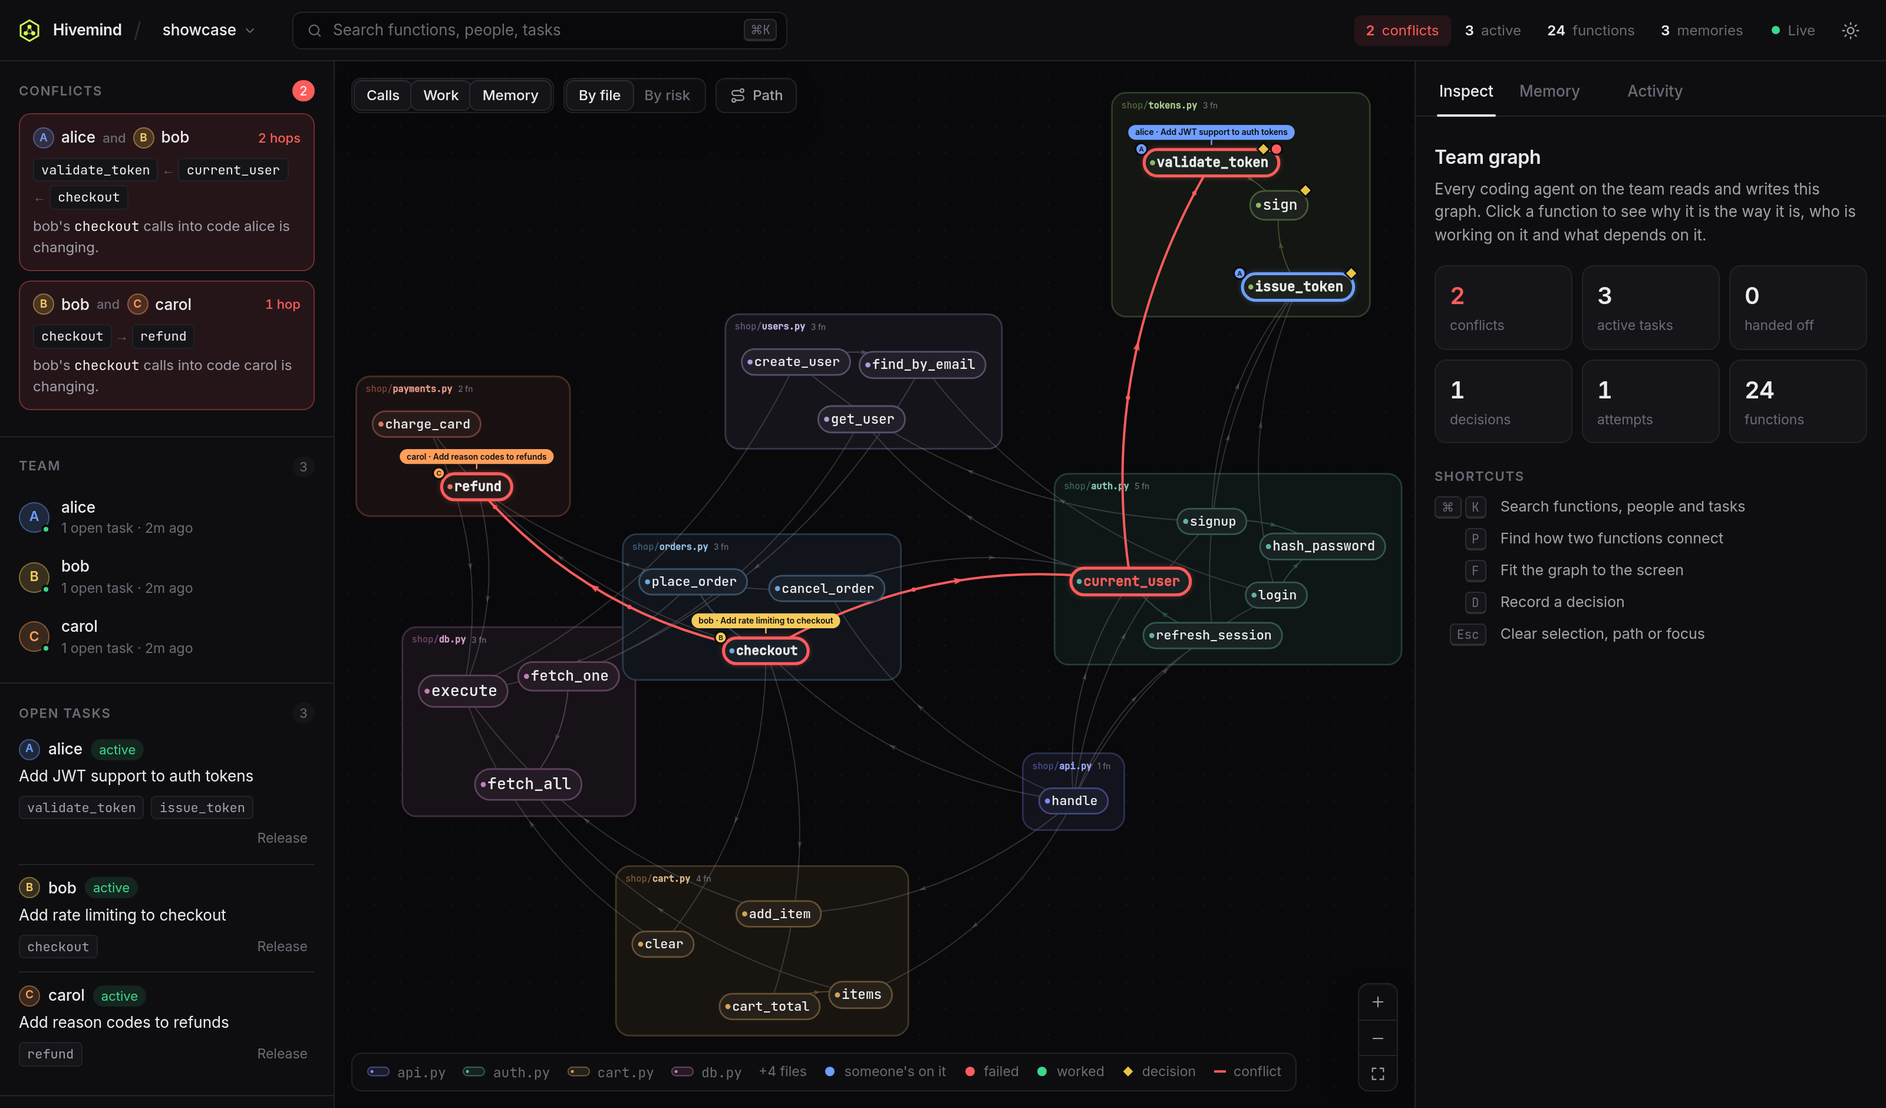
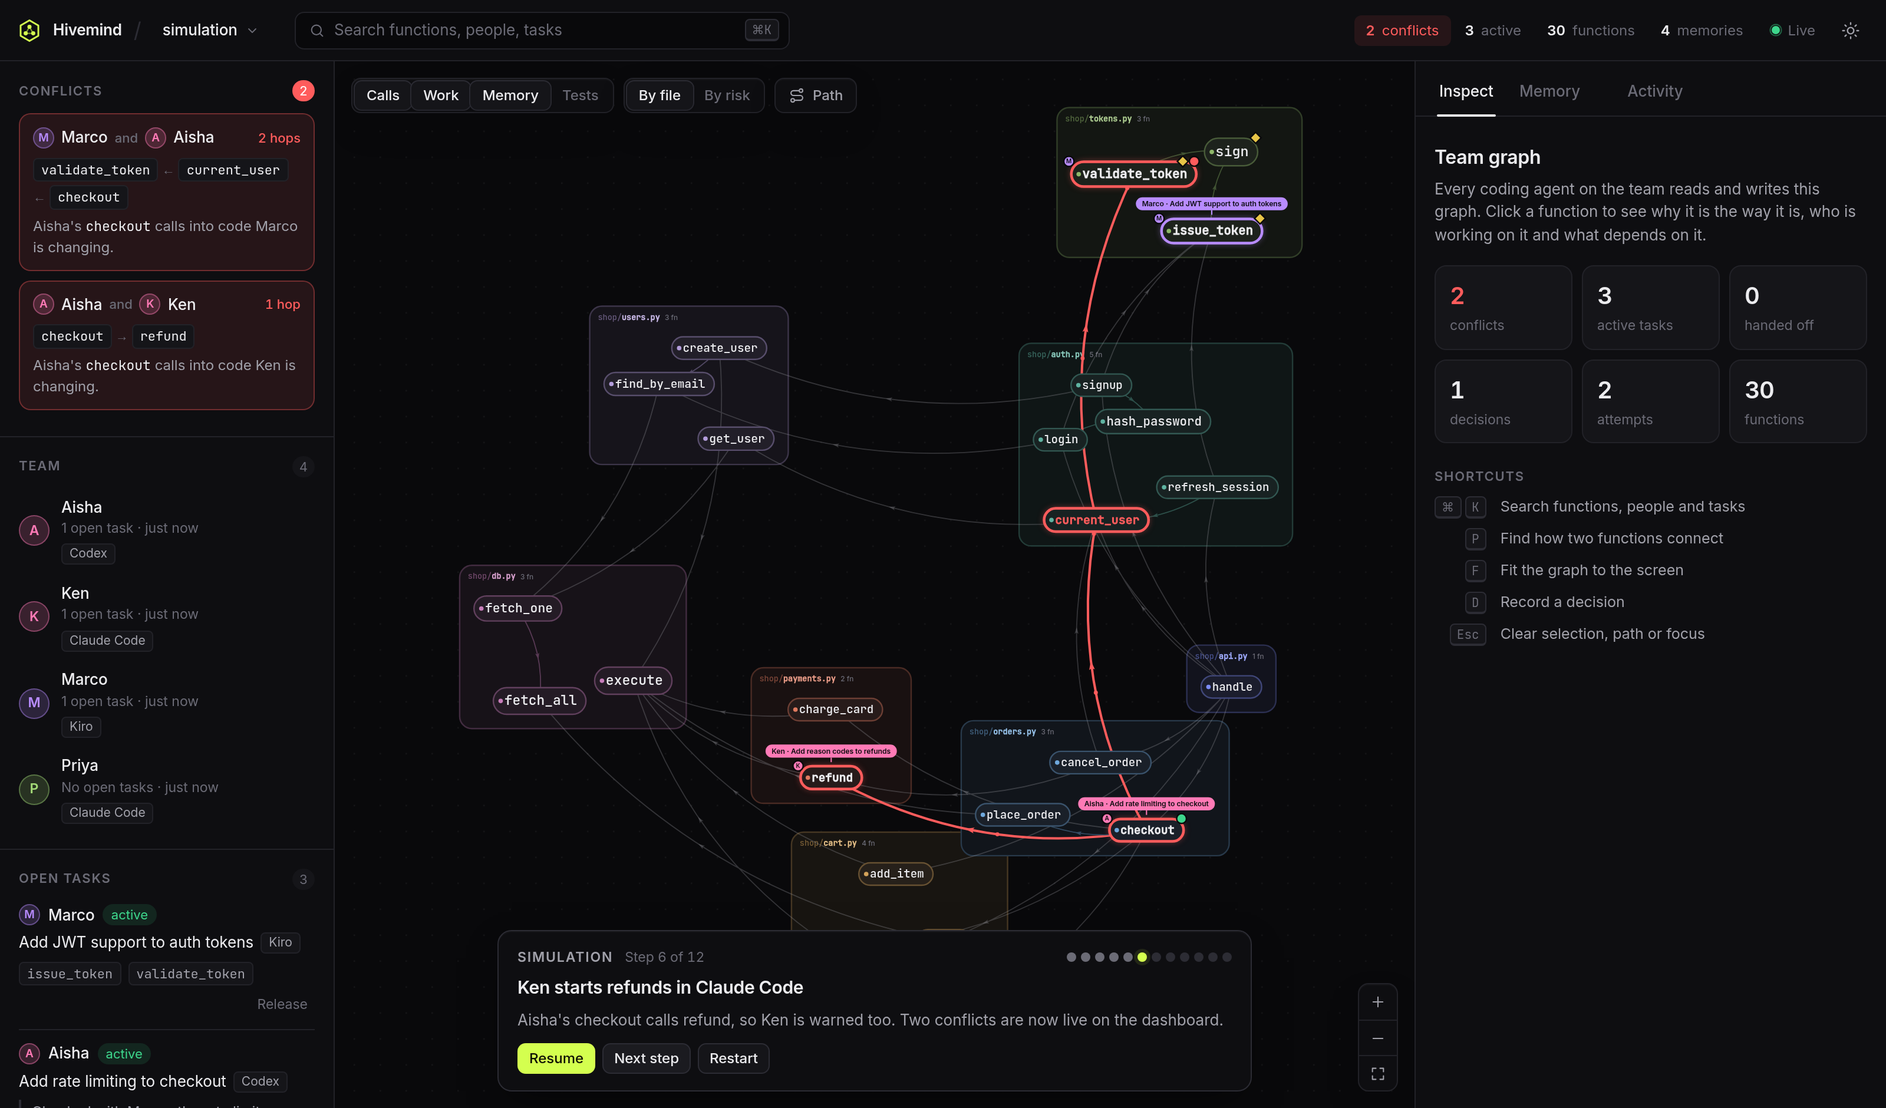
Submission-ready: links, data model, Cypher queries, AI disclosure
- README opens with the live demo, video, track and stack; adds the full
  graph data model, an architecture diagram, the Cypher queries and
  graph algorithms the product depends on, and the AI-assistance
  disclosure the rules require
- docs/SUBMISSION.md: copy-paste answers for the submission form
- docs/demo-video-script.md: a three-minute shot list with real agents
- New hero screenshot from the live demo (two live conflicts)

diff --git a/README.md b/README.md
@@ -1,6 +1,13 @@
 # ⬡ Hivemind
 
-**A shared graph brain for every coding agent on a team.** Built on [FalkorDB](https://falkordb.com) for Graph Hacks, Track 02: Agent Memory and Coordination.
+**A shared graph brain for every coding agent on a team.** Built on [FalkorDB](https://falkordb.com) for [Graph Hacks: Context for AI Agents](https://www.wemakedevs.org/hackathons/falkordb) (WeMakeDevs × FalkorDB, Oct 15–18 2026).
+
+| | |
+|---|---|
+| **▶ Live demo** | **[hivemind-live-demo.vercel.app](https://hivemind-live-demo.vercel.app)**: press Play, no sign-up |
+| **Demo video** | DEMO_VIDEO_LINK |
+| **Track** | Agent Memory and Coordination (Track 02) |
+| **Built with** | FalkorDB Cloud · Python · MCP · Claude Code, Kiro and Codex hooks · Vercel |
 
 Five developers each run their own Claude Code, Codex or Kiro agent on the same repo. None of those agents knows what the others are doing. Agent A rewrites `validate_token()` while Agent B builds on its old behaviour. Agent C retries a fix that Agent D found breaks production yesterday. Every session starts from zero.
 
@@ -10,7 +17,7 @@ Hivemind puts every agent on one graph. It holds the code's call graph, who is c
 - **Memory of what failed, captured automatically.** When an agent changes code and the tests fail, that failure is attached to the exact functions it changed. It reaches the next agent that touches that function *or anything that calls it*, on any machine, in any later session, whichever agent that developer uses. When a later change makes the tests pass, the failure is marked fixed, along with the fix.
 - **Clean handoffs.** Alice's agent stops mid-task, and Bob's agent resumes it the next morning with every session, attempt and note.
 
-**▶ Live demo: [hivemind-live-demo.vercel.app](https://hivemind-live-demo.vercel.app)**. Press **Play** to watch five developers using Claude Code, Kiro and Codex work on one project through the shared memory: conflicts caught before anyone writes code, a failure that two attempts hit and that gets merged, a handoff, a fix that resolves the failure, and a decision that supersedes an older one. No sign-up needed.
+**▶ [Live demo](https://hivemind-live-demo.vercel.app)**: press **Play** to watch five developers using Claude Code, Kiro and Codex work on one project through the shared memory: conflicts caught before anyone writes code, a failure that two attempts hit and that gets merged, a handoff, a fix that resolves the failure, and a decision that supersedes an older one. No sign-up needed.
 
 ![live view](docs/live-view.png)
 
@@ -88,27 +95,119 @@ Every question Hivemind answers is a question about connections:
 
 In a relational store, each of these would mean stitching rows together with recursive joins on every agent step. In FalkorDB each one is a single Cypher query, fast enough to run before every edit.
 
-## Graph model
+## Graph data model
+
+One FalkorDB graph per team (`hivemind_<team>`, using FalkorDB's multi-graph support). The **code layer** is built from the repo; everything else is **team memory** attached to it.
 
 ```
-                       ┌──────────── code layer (indexer) ────────────┐
-                       (File)-[:DEFINES]->(Function)-[:CALLS]->(Function)
-                       (File)-[:IMPORTS]->(File)
-                                  ▲            ▲            ▲
-                          [:CLAIMS]│   [:TOUCHED]│  [:GOVERNS]│
-(Developer)-[:OWNS]->(Intent)──────┘  (Attempt)──┘ (Decision)──┘   (Convention)-[:APPLIES_TO]->(File)
-     │                  ▲                 ▲              ▲                 ▲
-     └─[:RAN]->(Session)┴─[:WORKS_ON]     └─[:MADE]      └─[:DECIDED]      └─[:SET]  (Developer)
+CODE LAYER (indexer.py, re-indexed per file as agents edit)
+  (File)-[:DEFINES]->(Function)-[:CALLS]->(Function)        Function {qname, name, file, lineno, hash, calls}
+  (File)-[:IMPORTS]->(File)
+
+WHO IS DOING WHAT (coordination)
+  (Developer)-[:RAN]->(Session {agent})-[:WORKS_ON]->(Intent {description, status, progress})
+  (Developer)-[:OWNS]->(Intent)                               moves to the new owner on handoff
+  (Intent)-[:CLAIMS]->(Function)                              what a task is changing right now
+
+WHAT HAPPENED (episodic)
+  (Session)-[:MADE]->(Change {added, changed, removed})-[:CHANGED]->(Function)
+  (Session)-[:MADE]->(Attempt {outcome, reason, signature, count, devs})-[:TOUCHED]->(Function)
+  (Attempt)-[:RESOLVES]->(Attempt)                            a later success fixed this failure
+  (Attempt)-[:PART_OF]->(Intent)
+  (Session)-[:LOGGED]->(Event)                                activity feed
+
+WHAT IS TRUE / HOW WE WORK (semantic, procedural)
+  (Developer)-[:DECIDED]->(Decision)-[:GOVERNS]->(Function|File)
+  (Decision)-[:SUPERSEDES]->(Decision)                        only the newest is shown to agents
+  (Developer)-[:SET]->(Convention)-[:APPLIES_TO]->(File)
 ```
 
-| Memory type | Nodes | Lifetime |
+| Memory type | Nodes | How it changes over time |
 |---|---|---|
-| **Episodic**: what happened | `Session`, `Attempt`, `Event` | Permanent history |
-| **Semantic**: what is true | `Decision`, the code graph | Until superseded or re-indexed |
-| **Procedural**: how we work | `Convention` | Repo-wide or scoped to files |
-| **Coordination**: shared state | `Intent` + `CLAIMS` | Active → handed off → done |
+| **Episodic**: what happened | `Session`, `Change`, `Attempt`, `Event` | Repeats merge (`count`, `devs`); failures get `RESOLVES` links when fixed |
+| **Semantic**: what is true | `Decision`, the code graph | Restated decisions `SUPERSEDE` older ones; code re-indexed per edit by AST hash |
+| **Procedural**: how we work | `Convention` | Duplicates merge |
+| **Coordination**: shared state | `Intent` + `CLAIMS` | Active → handed off → resumed → done |
 
-Each team gets its own isolated graph (`hivemind_<team>`) in a single FalkorDB instance, using FalkorDB's multi-graph support.
+## Architecture
+
+```
+ Developer A (anywhere)                Developer B (anywhere)
+ Claude Code / Kiro / Codex            Claude Code / Kiro / Codex
+   ├─ hooks: hivemind hook               ├─ hooks
+   └─ MCP:   hivemind serve              └─ MCP
+          │   Cypher over redis(s)://          │
+          ▼                                    ▼
+   ┌──────────────── FalkorDB Cloud ────────────────┐
+   │  hivemind_<team>   hivemind_<other team>  ...  │
+   └───────────────────────▲────────────────────────┘
+                           │
+        Vercel: dashboard (access code) · public demo (simulation)
+```
+
+Every agent action goes straight to the graph. No server of ours sits in between, so there's nothing else to run. Timestamps come from the database server's clock, because laptops disagree.
+
+## Cypher queries and graph algorithms it depends on
+
+Every feature is one or two queries. These are the ones the product can't work without (simplified only by removing parameters):
+
+**1. Conflict detection: is anyone changing code mine calls, or code that calls mine?** (`brain.py: conflicts`). This runs before every edit, in both directions separately so functions that merely share a caller don't count:
+```cypher
+MATCH (t:Function) WHERE t.qname IN $mine
+MATCH p = (t)-[:CALLS*1..3]->(o:Function)<-[:CLAIMS]-(i:Intent {status: 'active'})   // or (t)<-[:CALLS*1..3]-(o)
+WHERE i.dev <> $me
+RETURN t.qname, o.qname, i.dev, i.description, [n IN nodes(p) | n.qname] AS path
+```
+
+**2. Context before editing: what has been tried on this code or its neighbours?** (`brain.py: context`)
+```cypher
+MATCH (t:Function) WHERE t.qname IN $q
+MATCH (t)-[:CALLS*0..1]-(fn:Function)<-[:TOUCHED]-(a:Attempt)
+WITH a, collect(DISTINCT fn.qname) AS fns
+RETURN a.summary, a.outcome, a.reason, a.count, a.devs, a.resolved, a.resolved_summary
+```
+
+**3. A success resolves earlier failures** (`brain.py: record_attempt`)
+```cypher
+MATCH (f:Attempt {outcome: 'failed'})-[:TOUCHED]->(fn:Function)
+WHERE fn.qname IN $q AND coalesce(f.resolved, false) = false
+WITH DISTINCT f MATCH (a:Attempt {id: $fix})
+CREATE (a)-[:RESOLVES]->(f) SET f.resolved = true, f.resolved_dev = $dev
+```
+Duplicates are merged first: a new attempt with the same outcome on the same functions and the same failing tests (or similar wording) increments `count` instead of creating a node.
+
+**4. Decisions supersede decisions** (`brain.py: record_decision`)
+```cypher
+MATCH (x:Decision)-[:GOVERNS]->(n)
+WHERE x.superseded = false AND ((n:Function AND n.qname IN $q) OR (n:File AND n.path IN $files))
+...
+CREATE (new)-[:SUPERSEDES]->(old) SET old.superseded = true
+```
+
+**5. Blast radius: what breaks if this changes?** (`brain.py: blast_radius`)
+```cypher
+MATCH (t:Function {qname: $q})
+MATCH p = (caller:Function)-[:CALLS*1..3]->(t)
+RETURN caller.qname, min(length(p)) AS distance
+```
+
+**6. Incremental re-index after an agent edits a file** (`indexer.py: index_file`). Each function's AST hash says what really changed, and calls are re-resolved by name:
+```cypher
+MATCH (a:Function {file: $file}) UNWIND a.calls AS name
+MATCH (b:Function {name: name}) WHERE b <> a
+WITH a, collect(b) AS targets, [t IN collect(b) WHERE t.file = a.file] AS local
+UNWIND CASE WHEN size(local) > 0 THEN local ELSE targets END AS t
+MERGE (a)-[:CALLS]->(t)
+```
+
+**7. Graph algorithms in the dashboard** (`ui.py`)
+```cypher
+CALL algo.pageRank('Function', 'CALLS') YIELD node, score                       // "core" functions
+CALL algo.betweenness({nodeLabels: ['Function'], relationshipTypes: ['CALLS']})  // chokepoints
+RETURN [n IN nodes(shortestPath((x)-[:CALLS*]->(y))) | n.qname]                 // path finder
+```
+
+**Remove FalkorDB and nothing works:** conflicts, context, consolidation, handoffs and the dashboard are all traversals over this graph.
 
 ## Memory that writes itself
 
@@ -227,7 +326,7 @@ uv run hivemind ui &                # http://127.0.0.1:8765 (⌘K to search)
 uv run hivemind demo --step         # press Enter to advance
 ```
 
-## The demo scenario
+## The local demo scenario
 
 `hivemind demo` plays this out on [`examples/shopapp`](examples/shopapp):
 
@@ -246,6 +345,10 @@ uv run pytest      # integration tests against the local FalkorDB; each test get
 ```
 
 Layout: `indexer.py` (code → graph, AST hashes, incremental) · `brain.py` (memory, consolidation, coordination) · `capture.py` (normalizes Claude/Kiro/Codex hook payloads, detects test runs) · `hooks.py` · `server.py` (MCP) · `setup.py` (`init`) · `watch.py` · `ui.py` + `static/` · `demo.py`. `tests/fixtures/hooks` holds payloads captured from real agent sessions.
+
+## How this was built (AI disclosure)
+
+As the hackathon rules require: Hivemind was built during the hackathon window (first commit on Oct 16, 2026) with **Claude Code** (Anthropic) as an AI coding assistant. Jaskaran Singh came up with the idea (agents on different machines sharing one memory of a codebase) and set the product direction: automatic capture across Claude Code, Kiro and Codex, a cloud-hosted setup with a Vercel dashboard, one-command onboarding and the public simulation. He also reviewed the results at each step. Much of the code was written by the assistant under that direction. It was verified with automated tests against a real FalkorDB (63 tests) and with real Claude Code, Kiro and Codex sessions (see *Tested with real agents*). All example data is synthetic: [`examples/shopapp`](examples/shopapp) is a made-up shop backend.
 
 ## Roadmap
 

diff --git a/docs/SUBMISSION.md b/docs/SUBMISSION.md
@@ -1,0 +1,67 @@
+# Graph Hacks submission: Hivemind
+
+Copy-paste answers for the submission form. Fill in the demo video link once it's uploaded.
+
+**Project name:** Hivemind
+
+**Tagline:** A shared graph brain for every coding agent on a team.
+
+**Track:** Agent Memory and Coordination (Track 02).
+*Optional second track:* Agents That Act on Connected Data. Agents run multi-hop call-graph queries through MCP before acting, and every warning shows the path that caused it.
+
+**Links**
+- Repository: https://github.com/Quantapixel/memofull
+- Live demo (public, press Play): https://hivemind-live-demo.vercel.app
+- Demo video: DEMO_VIDEO_LINK
+- Setup instructions: README → *Get started*
+- Graph data model: README → *Graph data model*
+- Cypher queries and algorithms: README → *Cypher queries and graph algorithms it depends on*
+
+## Short description (~100 words)
+
+Developers now run their own coding agents (Claude Code, Kiro, Codex) on the same codebase, but the agents can't see each other and forget everything between sessions. Hivemind puts every agent on one FalkorDB graph: the code's call graph plus who is changing what, what was tried, what failed and what the team decided. Hooks capture each edit down to the function and every test run automatically. Before an edit, agents are warned when a teammate is changing connected code, with the exact call path. Failures, fixes, decisions and handoffs follow the code across machines and sessions, and the memory consolidates itself as it grows.
+
+## The problem
+
+When a team works with AI coding agents, every agent starts from zero and works alone:
+- Agent A changes `validate_token` while agent B, on another laptop, builds on its old behaviour. Git only notices the textual conflict after both are done; the *semantic* conflict goes unnoticed.
+- Agent C retries an approach that broke the tests for agent D yesterday.
+- When someone stops mid-task, the next person (and their agent) starts over.
+
+## What Hivemind does
+
+- **Captures memory automatically.** Hooks in Claude Code, Kiro and Codex turn prompts into tasks and record edits at function level (by AST hash). Test runs after a change become attempts, and the agent's own summary becomes the task's progress note.
+- **Prevents collisions.** Before an edit, a variable-length traversal finds teammates' active claims up to 3 calls away, in either direction. The edit is blocked once, with the path (`checkout → current_user → validate_token`).
+- **Consolidates.** Repeated failures merge ("seen 2× by Marco"), a passing change `RESOLVES` earlier failures, restated decisions `SUPERSEDE` older ones, and duplicate rules merge.
+- **Hands off cleanly.** Ownership moves while the full history stays attached: sessions, attempts, notes.
+- **Explains.** `why(fn)` returns the current decision, the one it replaced, the failures and who fixed them. `blast_radius` and `who_knows` are one query each.
+- **Works across machines.** FalkorDB Cloud holds one graph per team. Teammates join with `hivemind join <dashboard>` plus an access code, and a Vercel dashboard shows everything live.
+
+## How FalkorDB is used (central, not decorative)
+
+- One graph per team (multi-graph) holds a code layer (`File`, `Function`, `CALLS`) and team memory (`Intent`, `CLAIMS`, `Change`, `Attempt`, `RESOLVES`, `Decision`, `SUPERSEDES`, `Convention`, `Session`, `Developer`).
+- **Variable-length traversals** (`[:CALLS*1..3]`) for conflict detection and blast radius, run before every edit.
+- **Graph algorithms:** `algo.pageRank` (core functions), `algo.betweenness` (chokepoints) and `shortestPath` (path finder, including the closest shared caller).
+- Incremental re-indexing with Cypher `UNWIND`/`MERGE` as agents edit files.
+- Remove FalkorDB and nothing works: conflicts, context, consolidation, handoffs and the dashboard are all graph queries.
+
+## Tested with real agents
+
+Three "machines" (separate clones) shared one FalkorDB Cloud graph:
+- **Kiro:** given a task that never mentioned Hivemind. Its prompt, exact function changes and test results were recorded automatically.
+- **Claude Code, as a different developer:** said unprompted, "the revocation check from kira's recent change is untouched".
+- **Codex:** used the shared task board through MCP; its edits were captured by `hivemind watch`.
+
+Separately, a fresh install from GitHub followed by `hivemind join` was run against the live dashboard. There are 63 automated tests, all running against a real FalkorDB.
+
+## Data
+
+All data is synthetic: `examples/shopapp` is a made-up shop backend, and the simulation's developers are fictional.
+
+## AI assistance disclosure
+
+Built during the hackathon window (first commit Oct 16, 2026) with Claude Code (Anthropic) as an AI coding assistant. Jaskaran Singh came up with the idea and set the product direction: cross-machine shared memory, automatic capture for Claude Code, Kiro and Codex, the hosted dashboard, one-command onboarding and the public simulation. He reviewed each stage; much of the code was written by the assistant under that direction. Full statement in the README.
+
+## Team
+
+Jaskaran Singh (@Quantapixel)

diff --git a/docs/demo-video-script.md b/docs/demo-video-script.md
@@ -1,0 +1,53 @@
+# Demo video script (about 3 minutes)
+
+The rules ask for "a demo video showing the working project". Judges will want to see real agents, not just the dashboard, so the video uses two terminals plus the browser. Record at 1080p with a screen recorder (on GNOME, press Ctrl+Alt+Shift+R or use OBS) and talk over it.
+
+## Before recording (5 minutes)
+
+1. Wake the database: open your instance in the FalkorDB Cloud console and check it says Running. Then run `hivemind doctor` in `~/shopapp` and make sure everything is ✓.
+2. Open two terminals side by side, both in `~/shopapp`:
+   - Terminal 1: you (Claude Code).
+   - Terminal 2: a second developer. Use a second clone with a different name, e.g.
+     `git clone https://github.com/Quantapixel/shopapp ~/shopapp-maya && cd ~/shopapp-maya && git config user.name "Maya" && hivemind join https://hivemind-dashboard-five.vercel.app`
+     Use `kiro-cli chat --agent hivemind` here to show a second agent.
+3. Browser: the private dashboard (https://hivemind-dashboard-five.vercel.app) on team `duo`, and a second tab with the public demo.
+4. Make sure the shop app's tests pass at the start: `python3 -m unittest discover -s tests -t .`
+
+## Shots
+
+**0:00 – 0:20 · The problem** (talk over the dashboard)
+"Every developer now has their own coding agent. But my agent doesn't know what yours is doing, and it forgets everything between sessions. Hivemind gives all of them one shared memory, a graph in FalkorDB."
+
+**0:20 – 0:50 · Collision caught before it happens**
+- Terminal 2 (Maya, Kiro): *"Make validate_token reject tokens older than 30 minutes."* Let it start editing.
+- Terminal 1 (you, Claude Code): *"Add rate limiting to checkout in shop/orders.py."*
+- Show the edit being blocked with the message: `checkout -> current_user -> validate_token`.
+- Switch to the dashboard: the red conflict path and both tasks.
+- Say: "Git would only catch this after we both finished. The graph caught it before I wrote a line, because checkout calls current_user, which calls validate_token."
+
+**0:50 – 1:30 · Memory that writes itself**
+- Let one agent's test run fail (if nothing fails naturally, ask Maya's agent to *"change validate_token to require a 'v2:' prefix and run the tests"*).
+- Dashboard: click `validate_token`. History shows the failed attempt with the failing test, and the activity feed shows edits and test runs.
+- Say: "Nobody called a tool. The hooks saw the edit, re-indexed the file to find exactly which function changed, and attached the failing test to it."
+
+**1:30 – 2:00 · Shared memory across agents**
+- Terminal 1: *"What has been tried on validate_token?"* Claude Code answers with Maya's failure.
+- Say: "Different machine, different person, different agent. Same memory."
+
+**2:00 – 2:30 · Handoff and fix**
+- Terminal 2: *"I'm stopping, hand this task off to Jaskaran Singh with a note."*
+- Terminal 1: *"Pick up what was handed to me."* Fix it, run the tests, and they pass.
+- Dashboard: the failure is struck through, "Fixed by …".
+
+**2:30 – 2:50 · Why a graph**
+- README → *Cypher queries*, or the dashboard's Path finder and Hotspots (PageRank, betweenness).
+- Say: "Every feature is a traversal: conflicts are a variable-length CALLS path to someone's claim, blast radius is transitive callers, and core functions come from PageRank. Remove FalkorDB and nothing works."
+
+**2:50 – 3:00 · Close**
+- Public demo tab: "Try it yourself at hivemind-live-demo.vercel.app. Five developers, three agents, one memory."
+
+## If something goes wrong while recording
+
+- An agent doesn't get blocked: the conflict check only fires when the other person's task is still active. Make sure terminal 2's task hasn't finished.
+- "Could not reach the database": the free instance went to sleep; wake it in the console.
+- Fallback: record the public demo playing (press Play) while you narrate. It runs the same story with five developers.
